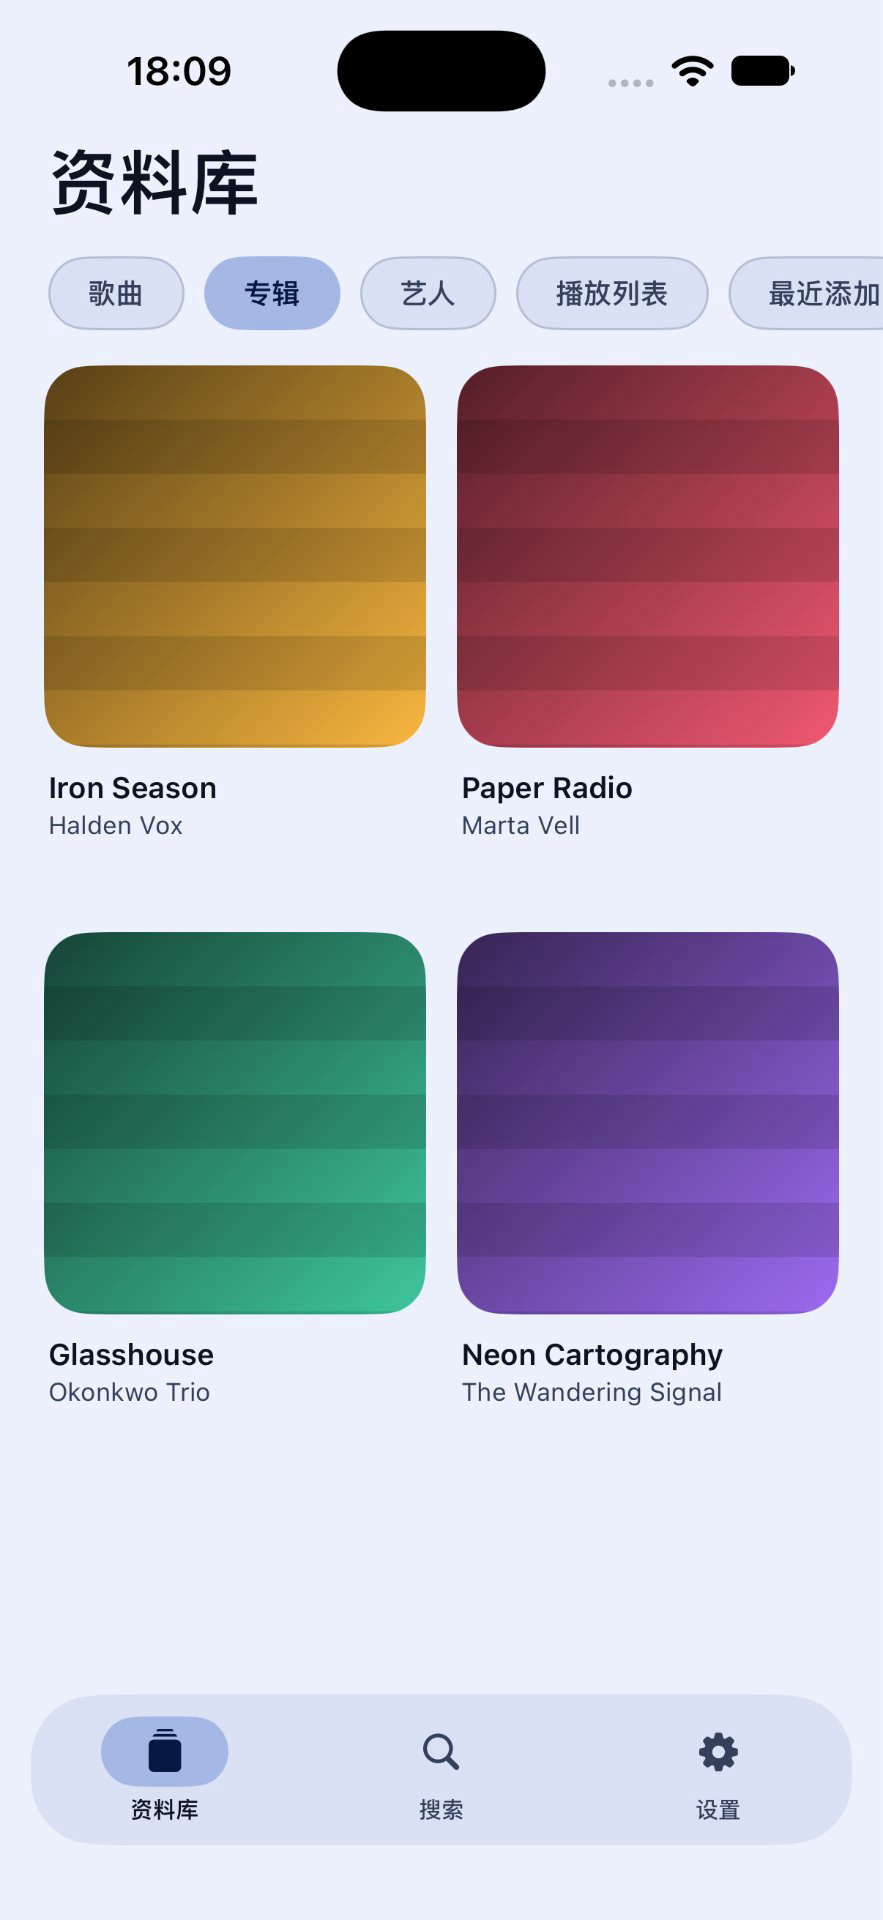
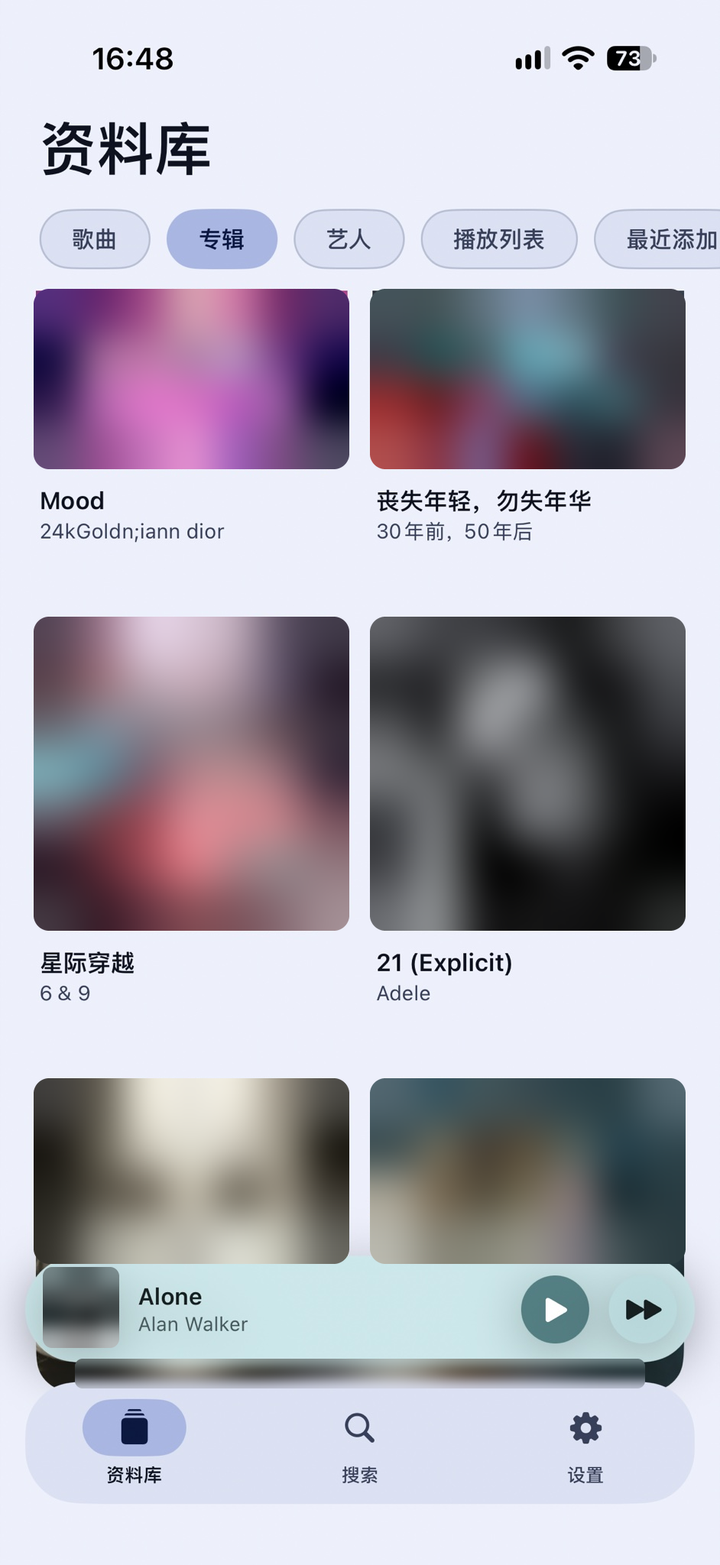
Refresh README screenshots for the frosted-glass theme
Replace the old solid-theme captures with new macOS/iOS shots of the glass UI, reorganise the section, and blur album artwork so no cover is reproduced. Drop the captures that no longer have a matching shot.

diff --git a/README.md b/README.md
@@ -3,7 +3,7 @@
 A local music player for macOS and iOS. One SwiftUI codebase, no accounts, no network, no
 streaming — it reads files off your disk and plays them.
 
-![Library](docs/screenshots/library-dark.png)
+![Library](docs/screenshots/macos-library.png)
 
 ## Why
 
@@ -74,28 +74,22 @@ FLAC headers itself, and plays the files where they sit.
 
 **macOS**
 
-![Library](docs/screenshots/library-dark.png)
-
-| Audio chain · bit-perfect | Equalizer |
+| Library | Now playing |
 |---|---|
-| ![Audio chain](docs/screenshots/audio-chain.png) | ![Equalizer](docs/screenshots/equalizer.png) |
+| ![Library](docs/screenshots/macos-library.png) | ![Now playing](docs/screenshots/macos-now-playing.png) |
 
-| Output devices & exclusive mode | Settings — language & appearance |
+| Settings — language & appearance | Output devices & exclusive mode |
 |---|---|
-| ![Output](docs/screenshots/settings-output.png) | ![Settings](docs/screenshots/settings.png) |
+| ![Settings](docs/screenshots/macos-settings.png) | ![Output](docs/screenshots/macos-output.png) |
 
 **iOS**
 
-| Now playing | Audio chain |
-|---|---|
-| ![Now playing](docs/screenshots/ios-now-playing.png) | ![Audio chain](docs/screenshots/ios-audio-chain.png) |
+| Library | Now playing | Equalizer |
+|---|---|---|
+| ![Library](docs/screenshots/ios-library.png) | ![Now playing](docs/screenshots/ios-now-playing.png) | ![Equalizer](docs/screenshots/ios-equalizer.png) |
 
-| Library | Settings |
-|---|---|
-| ![Library](docs/screenshots/ios-library.png) | ![Settings](docs/screenshots/ios-settings.png) |
-
-*Screenshots show the synthetic demo library generated by `Tools/make-demo-library.py` —
-the audio and cover art are procedurally generated, not anyone's actual music.
+*The screenshots show the frosted-glass theme (Settings › Appearance).
+Album covers are blurred, so no album artwork is reproduced here.
 界面为简体中文；Aria ships in English and Simplified Chinese — switch any time in
 Settings › Language / 设置 › 语言.*
 
